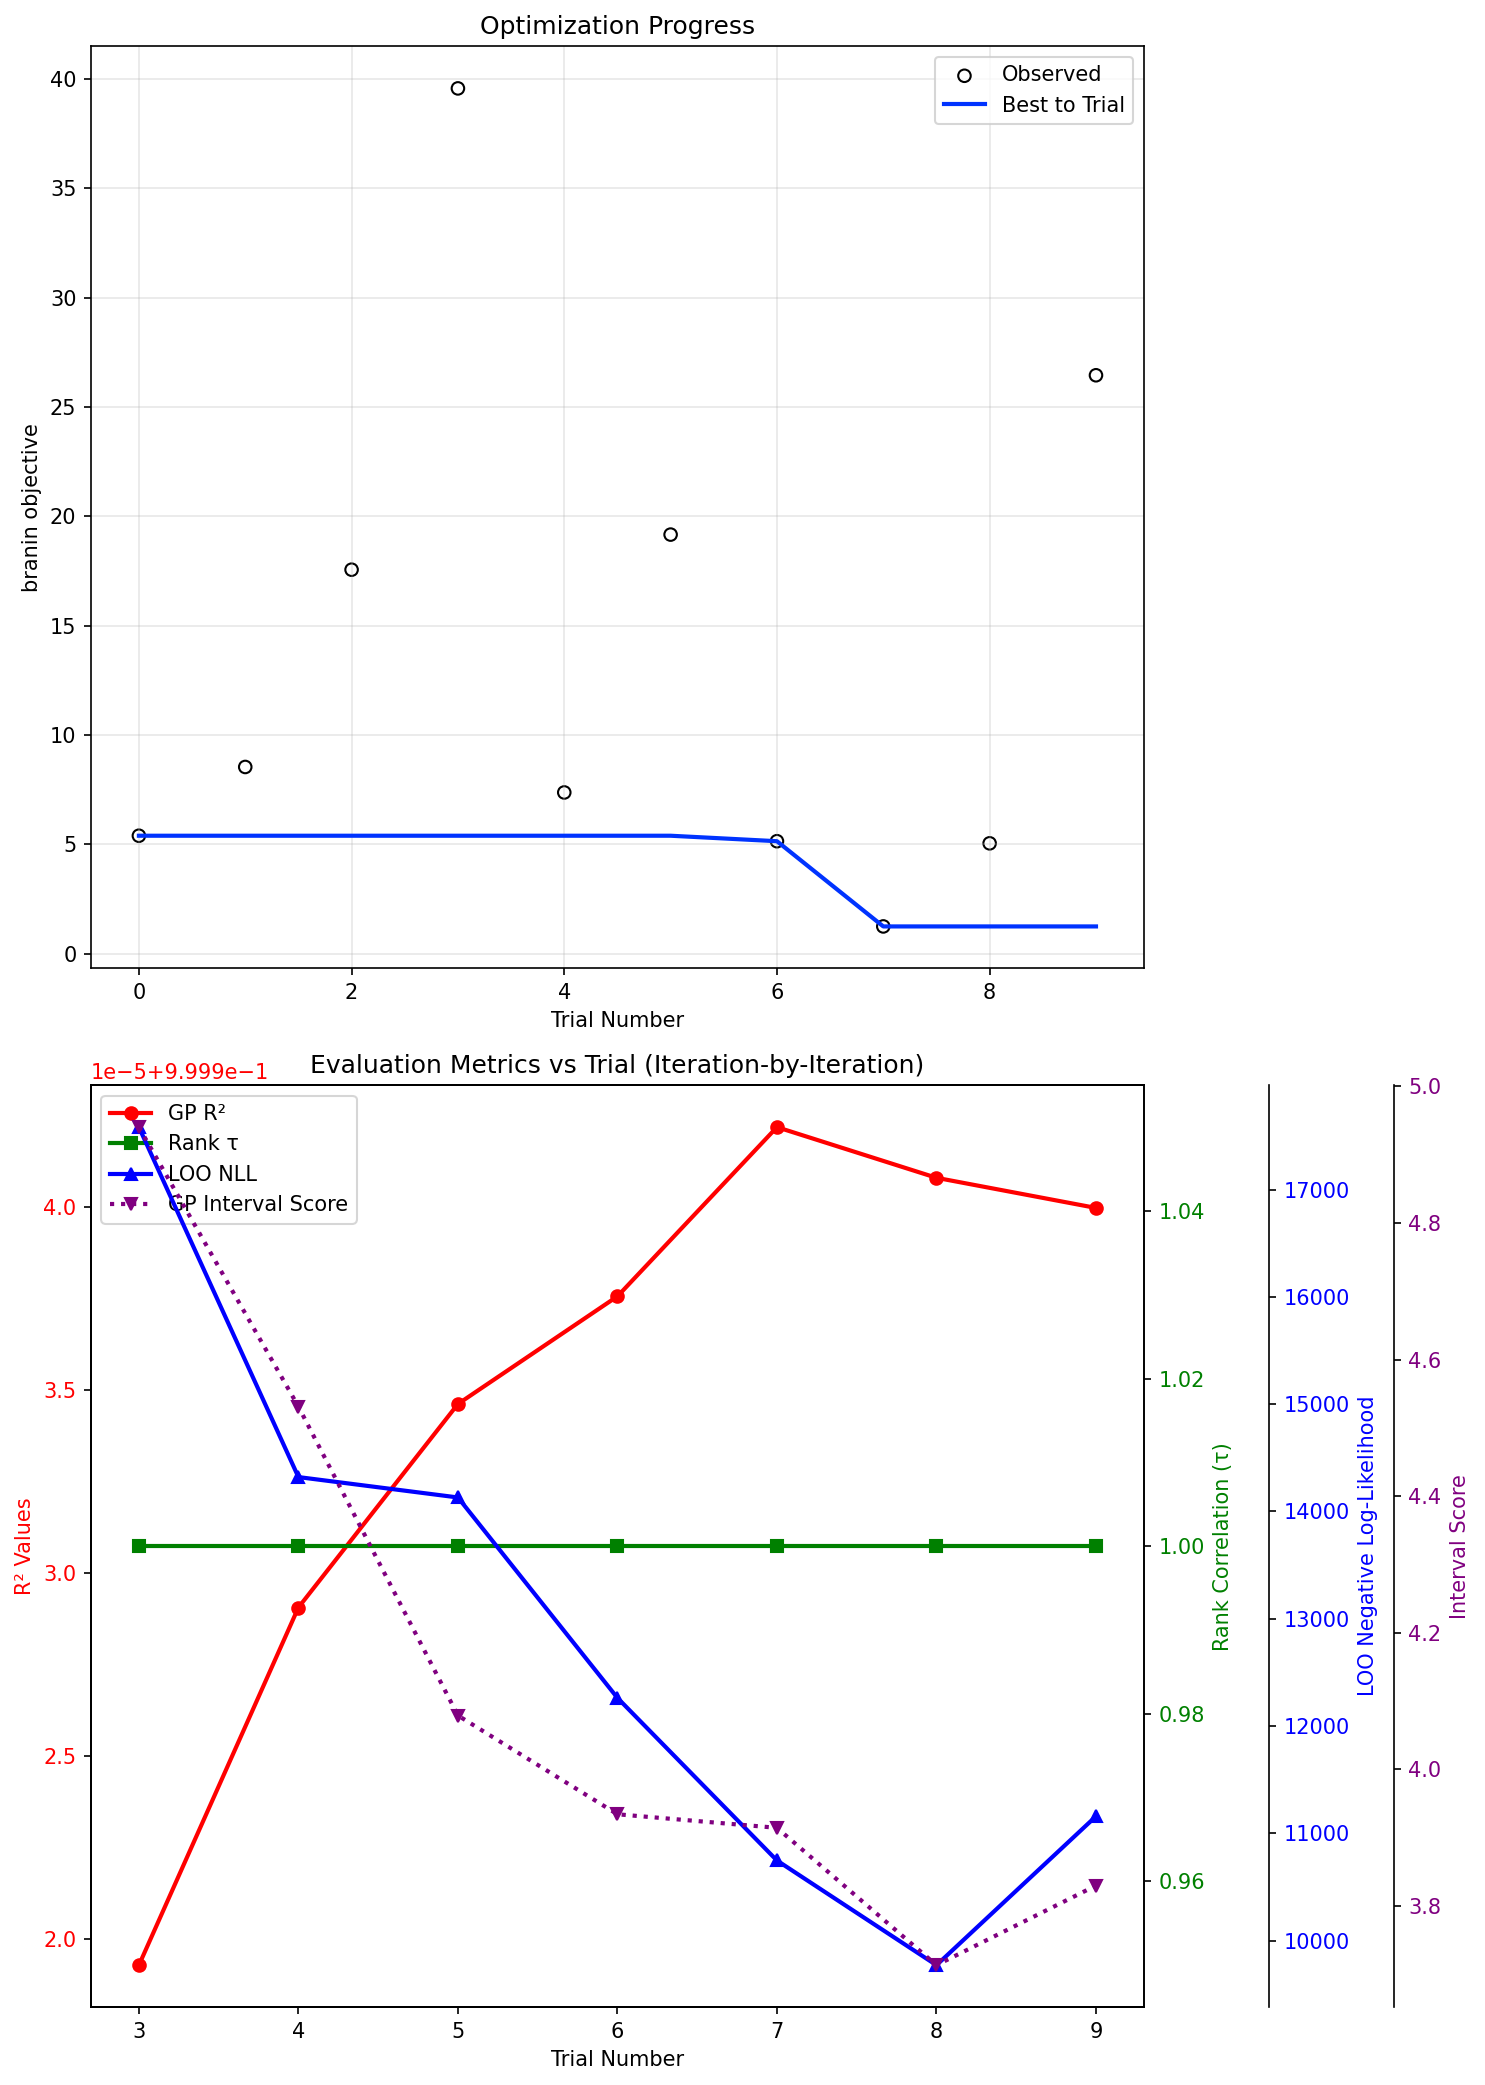
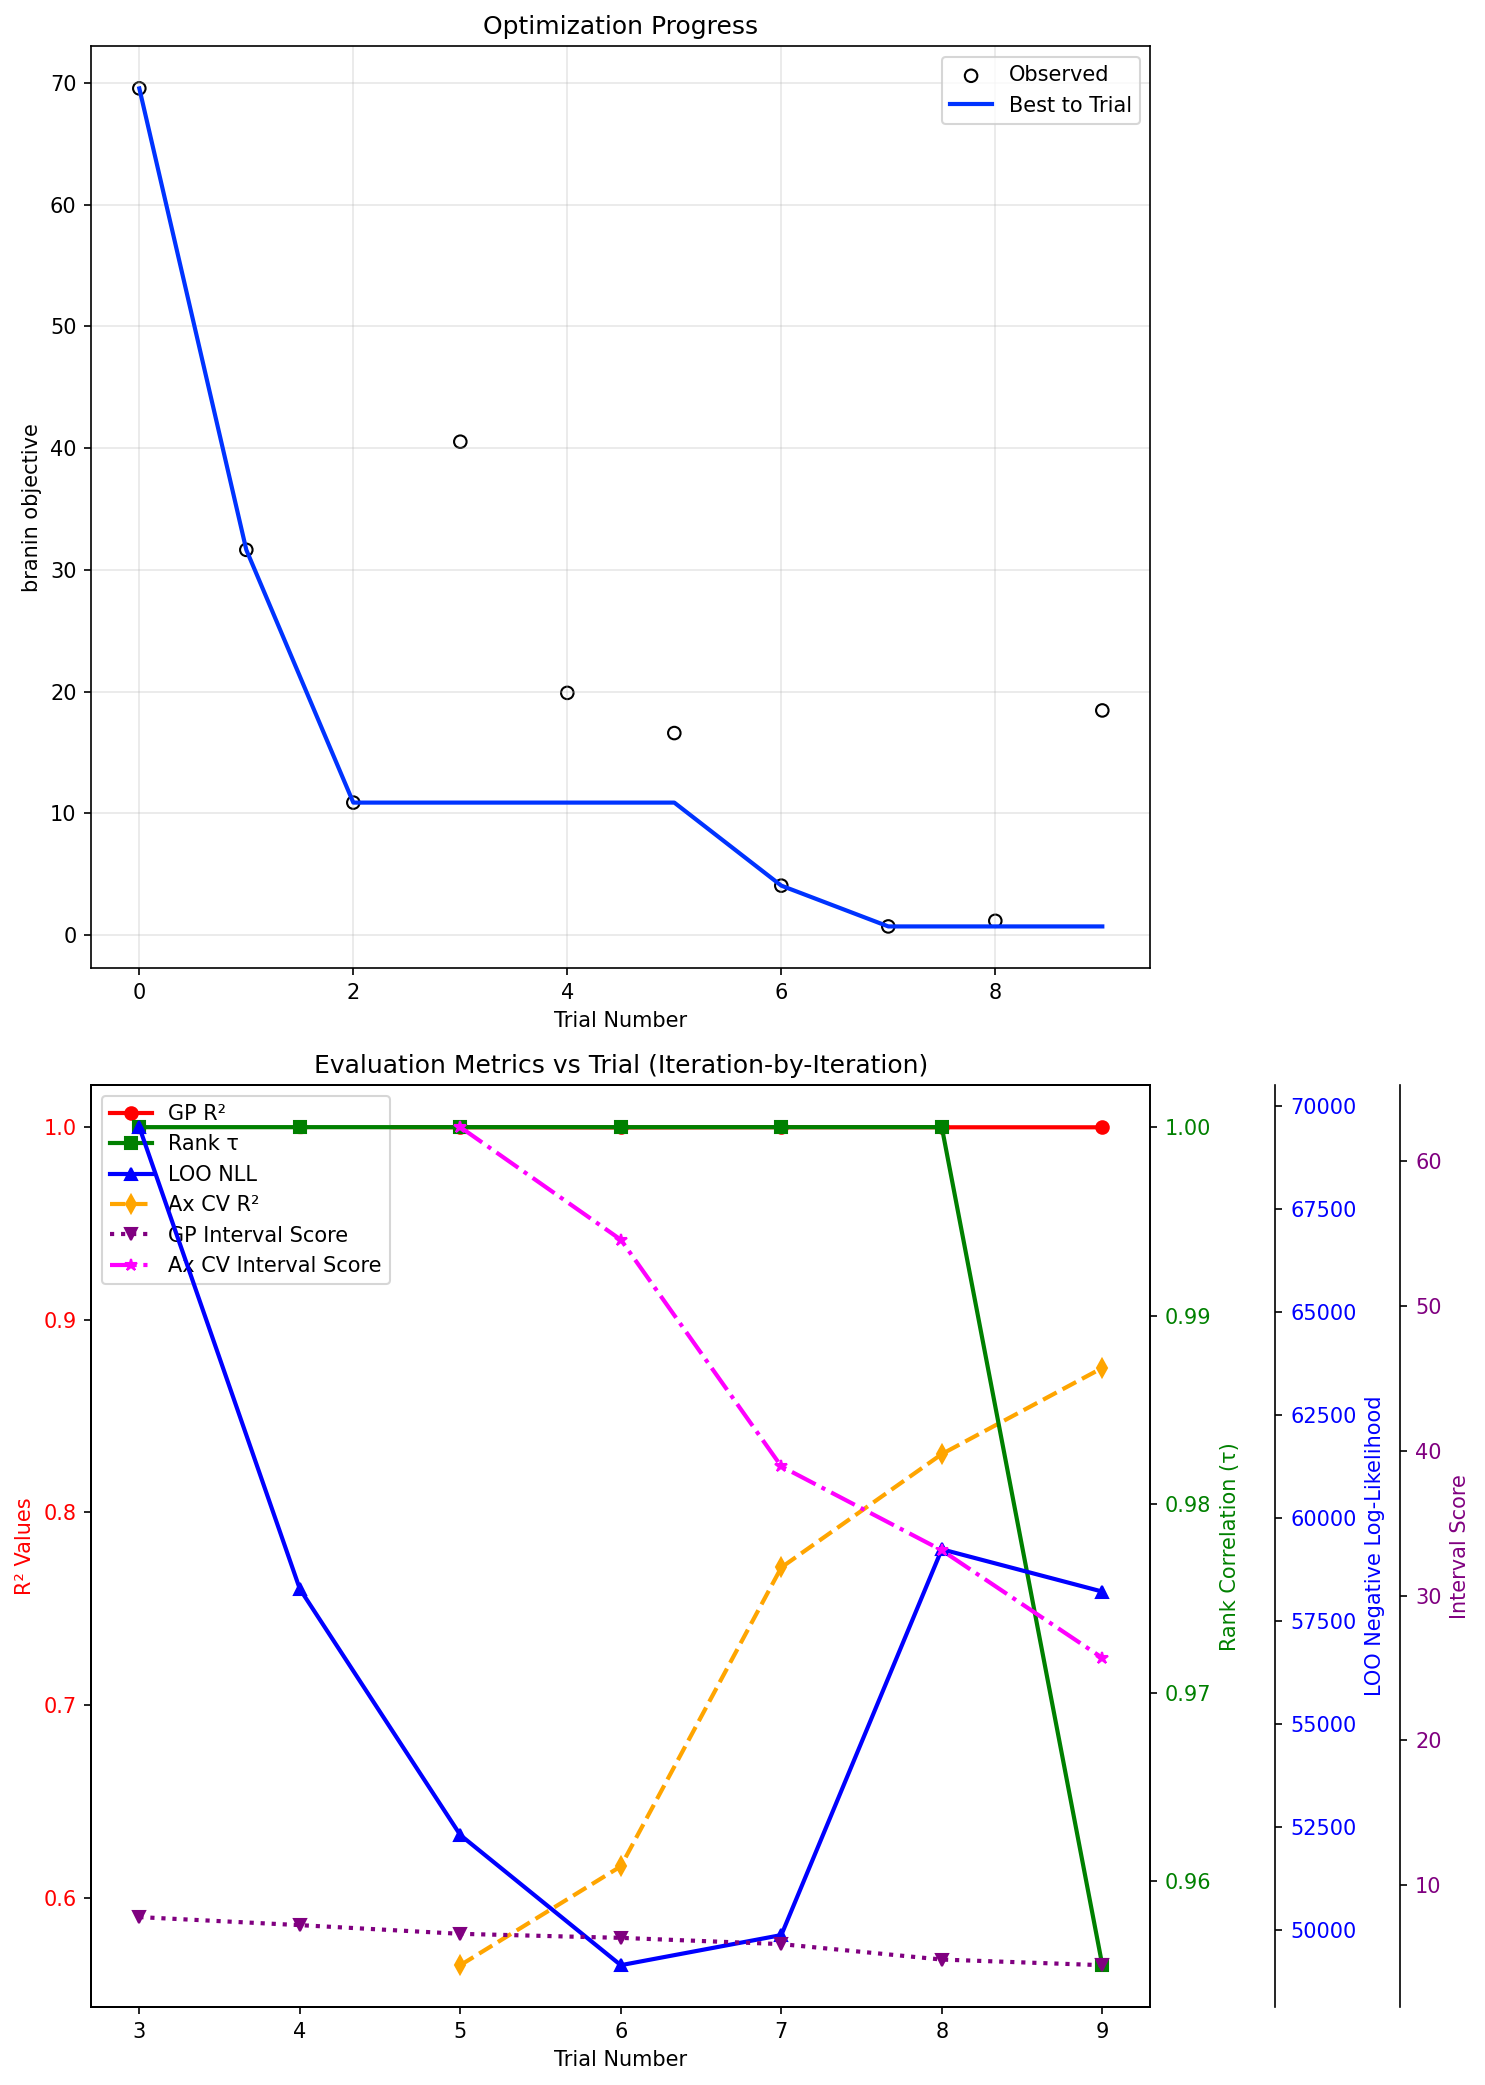
Complete Ax cross-validation implementation with proper adapter access

diff --git a/scripts/bo_benchmarks/demonstrations/branin_campaign_demonstration.py b/scripts/bo_benchmarks/demonstrations/branin_campaign_demonstration.py
@@ -63,62 +63,47 @@ def calculate_ax_cross_validation_metrics(ax_client):
         if ax_client.generation_strategy.current_step_index == 0:
             return None, None
             
-        # Get experiment and data 
-        experiment = ax_client.experiment
-        data = experiment.fetch_data()
+        # Get the adapter from the generation strategy - this is the correct approach
+        adapter = ax_client.generation_strategy.adapter
+        if adapter is None:
+            return None, None
         
-        # Get the generation strategy's current model - this is the proper way
-        # The generation strategy manages the model internally
-        gs = ax_client.generation_strategy
+        # Run cross validation using Ax's built-in function with the adapter
+        cv_results = cross_validate(model=adapter, folds=-1)  # -1 for leave-one-out
         
-        # Force model generation if needed
-        if hasattr(gs, '_gen'):
-            # Get the model that was actually used for generation
-            try:
-                # This is the standard pattern in Ax - create a model using the same approach
-                # as the generation strategy but for cross validation
-                from ax.service.utils.with_db_settings_base import WithDBSettingsBase
-                from ax.core.data import Data
-                
-                # Try direct cross validation on the ax_client's internal model
-                cv_results = cross_validate(model=gs._gen, folds=-1)
-                
-                # Extract predictions and true values
-                true_values = []
-                predicted_means = []
-                predicted_sems = []
-                
-                for obs, pred in cv_results:
-                    true_val = obs.data['branin'][0]  # Extract true value
-                    pred_mean = pred['branin'][0]  # Extract predicted mean
-                    pred_sem = pred['branin'][1]   # Extract predicted SEM
-                    
-                    true_values.append(true_val)
-                    predicted_means.append(pred_mean)
-                    predicted_sems.append(pred_sem)
-                
-                # Calculate R² using Ax's cross validation predictions
-                ax_cv_r2 = r2_score(true_values, predicted_means)
-                
-                # Calculate interval score using Ax's cross validation predictions
-                true_values = np.array(true_values)
-                predicted_means = np.array(predicted_means)
-                predicted_sems = np.array(predicted_sems)
-                
-                # Convert SEM to 95% confidence intervals (SEM * 1.96 for 95% CI)
-                lower = predicted_means - 1.96 * predicted_sems
-                upper = predicted_means + 1.96 * predicted_sems
-                
-                interval_scores = interval_score(true_values, lower, upper)
-                ax_cv_interval_score = np.mean(interval_scores)
-                
-                return ax_cv_r2, ax_cv_interval_score
-                
-            except Exception as inner_e:
-                print(f"Inner cross validation failed: {inner_e}")
-                return None, None
+        # Extract predictions and true values
+        true_values = []
+        predicted_means = []
+        predicted_sems = []
         
-        return None, None
+        for obs, pred in cv_results:
+            # Extract true value from observation data
+            true_val = obs.data.means[0]  # First metric mean
+            # Extract predicted mean and SEM from prediction data
+            pred_mean = pred.means[0]  # First metric mean
+            pred_var = pred.covariance[0][0]  # First metric variance
+            pred_sem = np.sqrt(pred_var) if pred_var > 0 else 0.0
+            
+            true_values.append(true_val)
+            predicted_means.append(pred_mean)
+            predicted_sems.append(pred_sem)
+        
+        # Calculate R² using Ax's cross validation predictions
+        ax_cv_r2 = r2_score(true_values, predicted_means)
+        
+        # Calculate interval score using Ax's cross validation predictions
+        true_values = np.array(true_values)
+        predicted_means = np.array(predicted_means)
+        predicted_sems = np.array(predicted_sems)
+        
+        # Convert SEM to 95% confidence intervals (SEM * 1.96 for 95% CI)
+        lower = predicted_means - 1.96 * predicted_sems
+        upper = predicted_means + 1.96 * predicted_sems
+        
+        interval_scores = interval_score(true_values, lower, upper)
+        ax_cv_interval_score = np.mean(interval_scores)
+        
+        return ax_cv_r2, ax_cv_interval_score
         
     except Exception as e:
         print(f"Ax cross validation failed: {e}")
